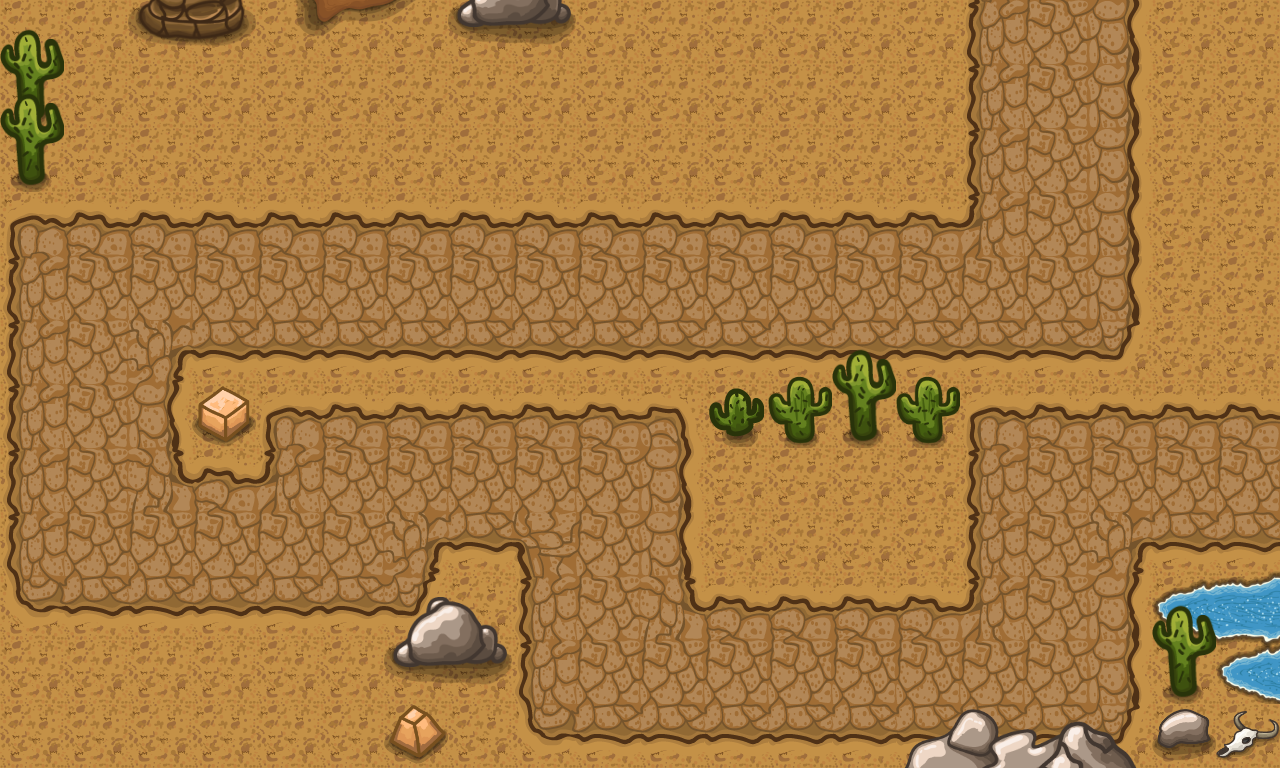
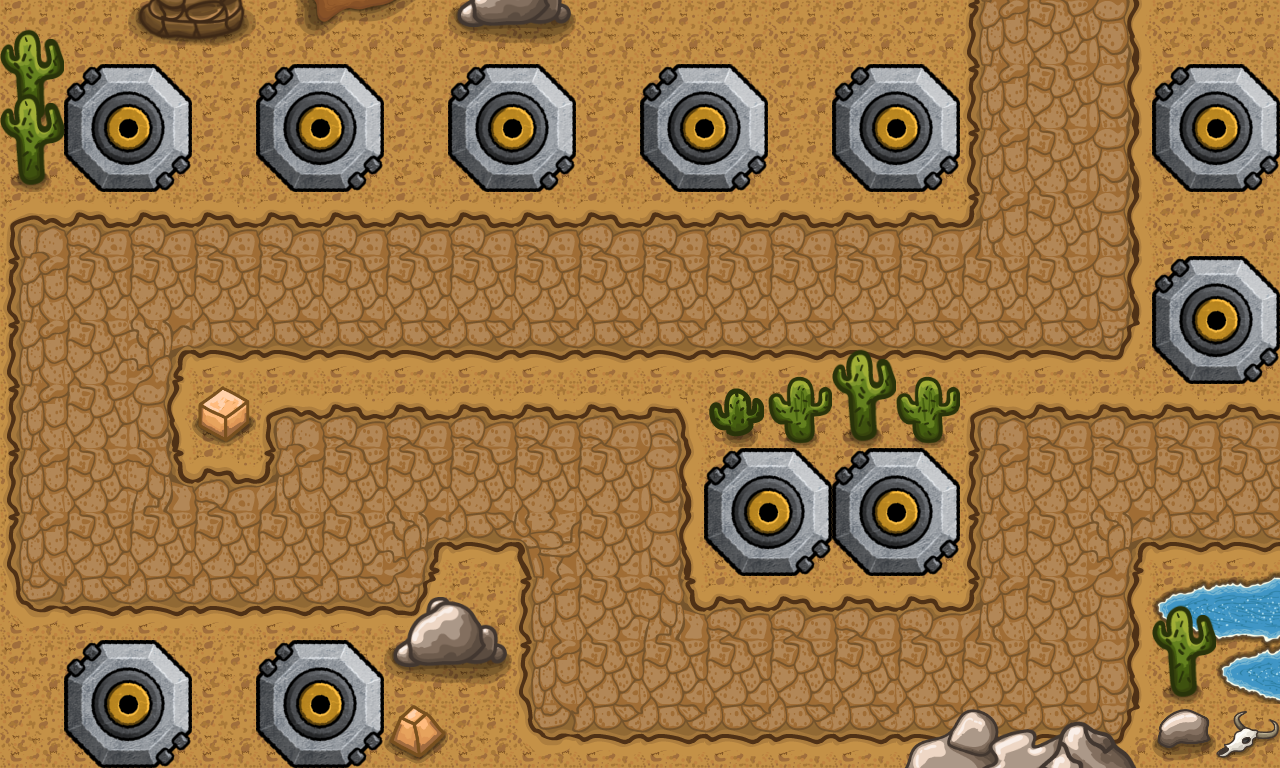
add substructure to the map

diff --git a/battle-towers-react/src/components/SceneCanvas.tsx b/battle-towers-react/src/components/SceneCanvas.tsx
@@ -1,4 +1,4 @@
-import { useEffect, useContext, useState } from 'react';
+import { useEffect, useContext, useState, useRef } from 'react';
 import { AppContext, AppContextType } from './AppContext';
 import { Log, Mouse } from '../types';
 import { GamePart, GameResult, LogType } from '../enums';
@@ -12,9 +12,10 @@ import fillPlacementTiles from './scripts/fillPlacementTiles';
 import spawnEnemies from './scripts/spawnEnemies';
 // import { getWave, updateEnemies, updatePlacementTiles, updateTower } from './scripts/updateCanvas';
 import TransitionInfo from './features/TransitionInfo';
-
+import substructure from './../assets/img/towers/structures/Substructure.png';
 
 const SceneCanvas = () => {
+  const towerCanvasRef = useRef<HTMLCanvasElement | null>(null);
 
   const { setWave, setLevel, setWorld, setLife, setMoney, setScore, setEndGame, endGame, logs } = useContext(AppContext) as AppContextType;
   const [init, setInit] = useState<boolean>(false);
@@ -108,7 +109,6 @@ const SceneCanvas = () => {
     const ctx = canvas!.getContext('2d');
     const image = new Image();
     image.src = scene.getCurrentMap();
-
     if (!ctx) return;
     ctx.drawImage(image, 0, 0);
     updateTower(towers, enemies);
@@ -142,6 +142,7 @@ const SceneCanvas = () => {
       updateBullet(tower, enemies);
     });
   }
+
 
   const updateBullet = (tower: Tower, enemies: Enemy[]) => {
     for (let i = tower.getBullets().length - 1; i >= 0; i--) {
@@ -298,14 +299,11 @@ const SceneCanvas = () => {
     if (init) initialize();
     // eslint-disable-next-line react-hooks/exhaustive-deps
   }, [init]);
-
   return (
     <div className={styles.canvasWrapper}>
       {isInfoVisible && <TransitionInfo info={info} time={time} />}
       <canvas className={styles.sceneCanvas}></canvas>
-
     </div>
-
   );
 }
 

diff --git a/battle-towers-react/src/components/scripts/fillPlacementTiles.ts b/battle-towers-react/src/components/scripts/fillPlacementTiles.ts
@@ -1,13 +1,12 @@
 import PlacementTile from '../classes/PlacementTile';
 import Scene from '../classes/Scene';
-// import data from './../worlds/desert.json';
+
 const fillPlacementTiles = (ctx: CanvasRenderingContext2D, scene: Scene) => {
 
   const tileSize = 64;
   const placementTiles: PlacementTile[] = [];
   const placementTilesData2D = [];
   const worldData = scene.getCurrentWorldData();
-
   for (let i = 0; i < worldData.placementTiles.length; i += 20) {
     placementTilesData2D.push(worldData.placementTiles.slice(i, i + 20));
   }
@@ -18,6 +17,7 @@ const fillPlacementTiles = (ctx: CanvasRenderingContext2D, scene: Scene) => {
       }
     });
   });
+
   return placementTiles;
 }
 

diff --git a/battle-towers-react/src/assets/scss/modules/SceneCanvas.module.scss b/battle-towers-react/src/assets/scss/modules/SceneCanvas.module.scss
@@ -5,8 +5,8 @@
 
   .transitionInfo {
     position: absolute;
-    left: 0%;
-    top: 0%;
+    left: 0;
+    top: 0;
     width: 100%;
     text-align: center;
     color: $fontColor;
@@ -19,6 +19,8 @@
     display: flex;
     justify-content: center;
     align-items: center;
+    border-radius: 5px;
+    z-index: 2;
 
     h3 {
       margin-bottom: 3rem;
@@ -33,7 +35,6 @@
     border-radius: 5px;
     border: 2px solid $secondaryColor;
     box-shadow: 0 0 4px 2px $secondaryColor;
+    z-index: 1;
   }
-
-
 }

diff --git a/battle-towers-react/src/components/classes/Player.ts b/battle-towers-react/src/components/classes/Player.ts
@@ -4,7 +4,7 @@ class Player {
   private score: number;
 
   constructor() {
-    this.life = 20;
+    this.life = 2000;
     this.money = 10000;
     this.score = 0;
   }
